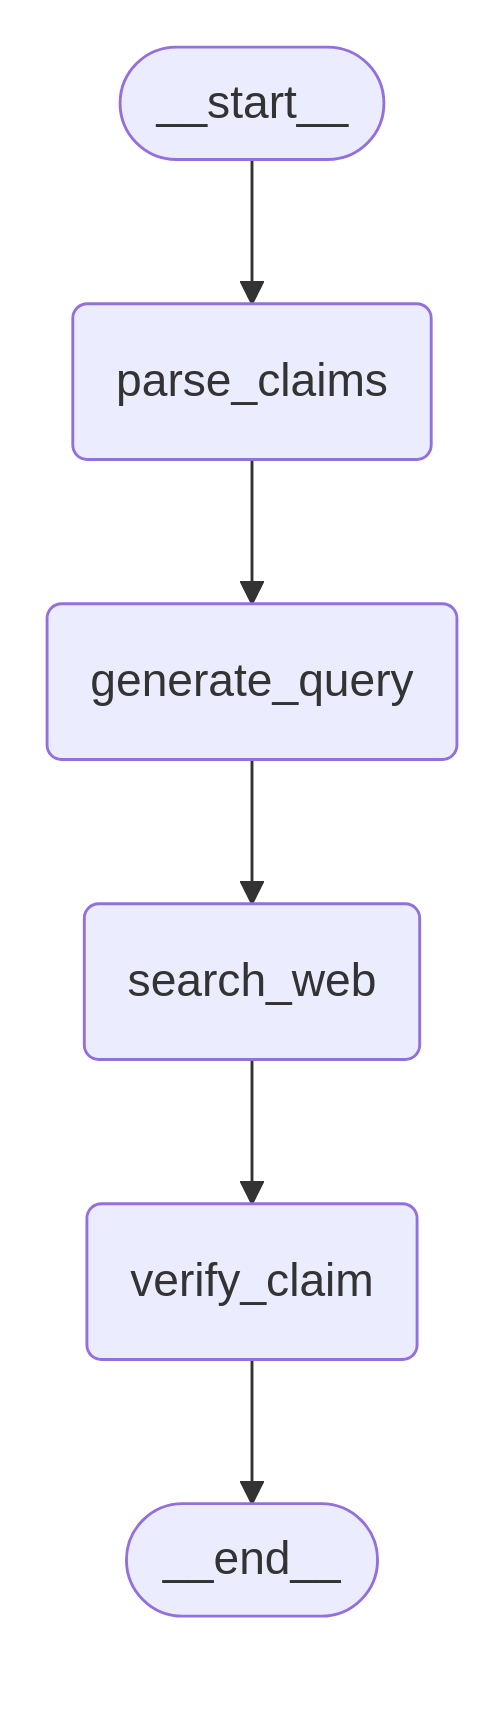
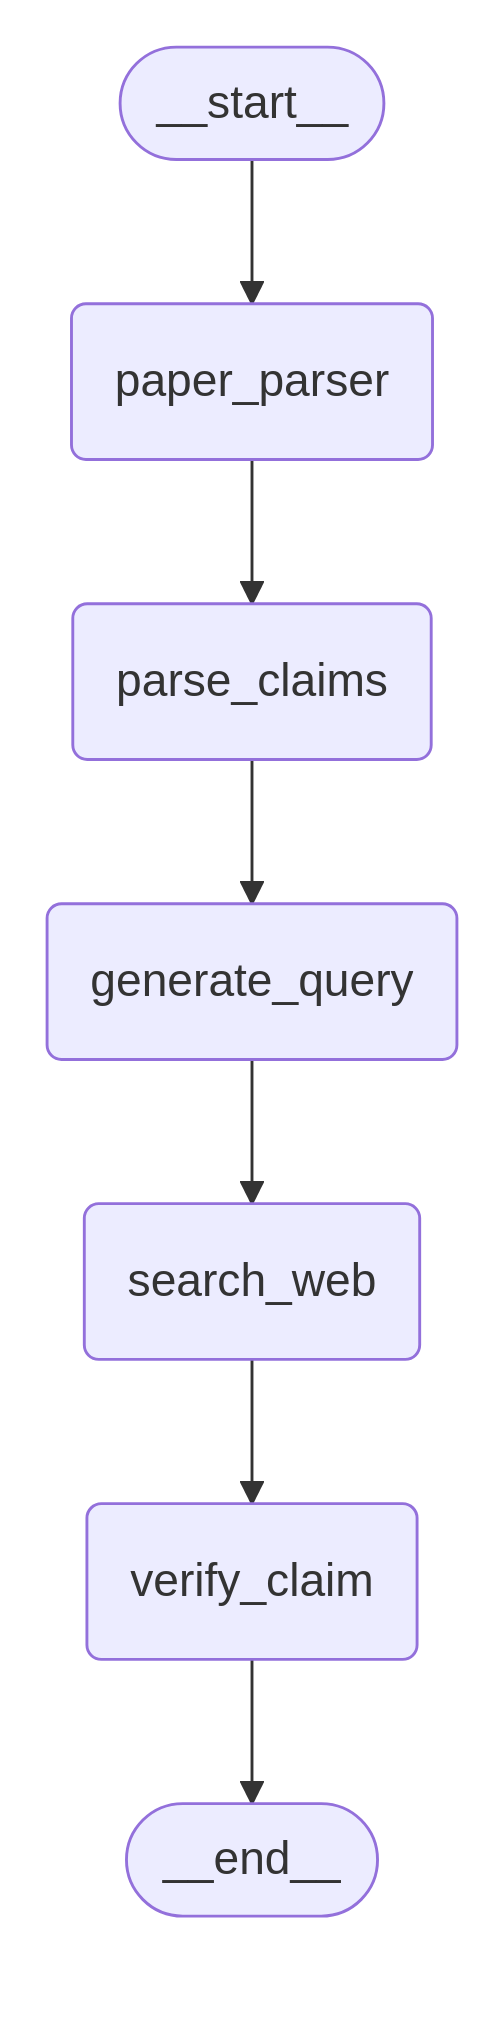
updated the checker

diff --git a/agents/checker.py b/agents/checker.py
@@ -12,12 +12,21 @@ from langchain_core.runnables.graph import CurveStyle, MermaidDrawMethod, NodeSt
 from fchecker.fscorer import LikertScorer
 from agents.schemas import FRPair
 from agents.states import FactCheckerState
+from pdfparse.rag_llama import RAG
+from langchain_core.messages import AIMessage, HumanMessage
+import yaml
+from agents.schemas import Paper
+from pprint import pprint
 
 logging.basicConfig(
+    filename="PRAGATI.log",
     level=logging.INFO, format="%(asctime)s - %(levelname)s - %(message)s"
 )
 logger = logging.getLogger(__name__)
 
+
+with open("utils/prompts.yaml", "r") as file:
+    prompts = yaml.safe_load(file)
 
 def generate_search_query(claim: str) -> str:
     """Generate a search query from a claim"""
@@ -113,6 +122,21 @@ def parse_claims(state: FactCheckerState) -> FactCheckerState:
 
     return state
 
+def retrieve_facts(state: FactCheckerState) -> FactCheckerState:
+    """Retrieve facts from the knowledge base"""
+    file = state.paper.filepath
+    if not file:
+        state.errors = "No file provided for knowledge base"
+        return state
+    logger.info(f"Starting RAG application with PDF: {file}")
+    rag = RAG(file)
+    index = rag.create_db()
+    query_text = prompts["fchecker"]["human_message"].format(paper_name=state.paper.title)
+    retriever = rag.create_retriever(index)
+    response = rag.rag_query(query_text, retriever)
+    pprint(response["result"])
+    state.inputs = response["result"]
+    return state
 
 def generate_query(state: FactCheckerState) -> FactCheckerState:
     """Generate search queries for the current claim"""
@@ -169,39 +193,45 @@ def verify_claim(state: FactCheckerState) -> FactCheckerState:
     """Verify the current claim against search results"""
     if state.current_index >= len(state.pairs) or state.errors:
         return state
-
+    
     current_pair = state.pairs[state.current_index]
+    verification = None  # Initialize verification variable
+    
     try:
         logger.info(f"Verifying claim: {current_pair.claim}")
         verification = score_fact(
             claim=current_pair.claim, references=current_pair.search_results
         )
+        pprint(verification)
         current_pair.verification = verification
         state.pairs[state.current_index] = current_pair
-        # if not isinstance(state.token_usage, int):
-        #     state.token_usage = 0
-        # state.token_usage += verification.get("token", 0)
-        # print("tokens used:",verification.get("token", 0))
+        
         if verification.get("score", "N/A") == 0:
             logger.info(f"Claim is Unverified")
         else:
             logger.info(f"Verification complete: Score={verification.get('score')}")
+            
+        # Add to total score only if verification was successful
+        state.total_score += verification.get("score", 0)
+        
     except Exception as e:
         state.errors = f"Error in verification: {str(e)}"
         logger.error(f"Error in verify_claim: {e}")
-
-    state.total_score += verification.get("score", 0)
+    
+    # Always increment the index and calculate average regardless of success/failure
     state.current_index += 1
+    
     if state.current_index < state.no_claims:
         state.average_score = state.total_score / state.current_index
     else:
         state.average_score = state.total_score / state.no_claims
-        if state.average_score > 3:
-            state.is_factual = True
-        else:
-            state.is_factual = False
+        
+    if state.average_score > 3:
+        state.is_factual = True
+    else:
+        state.is_factual = False
+        
     return state
-
 
 def should_continue(state: FactCheckerState) -> str:
     """Determine whether to process the next claim or end"""
@@ -220,15 +250,16 @@ def should_continue(state: FactCheckerState) -> str:
 
 def create_fact_checker_graph() -> StateGraph:
     """Create the fact checker workflow graph"""
-    # defining the nodes
     workflow = StateGraph(FactCheckerState)
+    workflow.add_node("paper_parser", retrieve_facts)
     workflow.add_node("parse_claims", parse_claims)
     workflow.add_node("generate_query", generate_query)
     workflow.add_node("search_web", search_web)
     workflow.add_node("verify_claim", verify_claim)
 
     # Define the edges
-    workflow.add_edge(START, "parse_claims")
+    workflow.add_edge(START, "paper_parser")
+    workflow.add_edge("paper_parser", "parse_claims")
     workflow.add_edge("parse_claims", "generate_query")
     workflow.add_edge("generate_query", "search_web")
     workflow.add_edge("search_web", "verify_claim")
@@ -257,11 +288,11 @@ def create_fact_checker_graph() -> StateGraph:
     return compiled_graph
 
 
-def fact_check(text: str) -> List[FRPair]:
+def fact_check(paper: Paper) -> List[FRPair]:
     """Run the fact checking process on a text input"""
     logger.info("Starting fact checking process")
     checker = create_fact_checker_graph()
-    final_state = checker.invoke({"inputs": text})
+    final_state = checker.invoke({"paper": paper})
 
     return final_state["pairs"]
 
@@ -286,6 +317,14 @@ def format_results(pairs: List[FRPair]) -> str:
 
 # Example usage
 if __name__ == "__main__":
-    while input("Enter q to quit: ") != "q":
-        input_text = input("Enter text to fact check: ")
-        results = fact_check(input_text)
+    # while input("Enter q to quit: ") != "q":
+    #     input_text = input("Enter text to fact check: ")
+    #     results = fact_check(input_text)
+    paper1=Paper(
+        filepath="/home/naba/Desktop/PRAGATI/satya.pdf",
+        title="Some Title",
+        topic="ML",
+        filename="satya.pdf",
+        sections=["Abstract", "Introduction", "Methodology"]
+    )
+    results = fact_check(paper1)

diff --git a/fchecker/fscorer.py b/fchecker/fscorer.py
@@ -1,8 +1,8 @@
 import os
 import yaml
+import re
 from langchain_core.messages import AIMessage, HumanMessage
 from utils.chat import invoke_llm_langchain
-
 
 class LikertScorer:
     def __init__(self):
@@ -11,18 +11,27 @@ class LikertScorer:
         prompts_path = os.path.join(project_root, "utils", "prompts.yaml")
         with open(prompts_path, "r") as file:
             self.prompts = yaml.safe_load(file)["scorer_prompts"]
-
+    
     def score_text(self, text, fact):
         initial_message = self.prompts["initial_message"].format(text=text, fact=fact)
         messages = [HumanMessage(content=initial_message)]
         response, i, o = invoke_llm_langchain(messages)
-        return int(response[-1].content.strip()), int(i + o)
-
+        content = response[-1].content.strip()
+        score_match = re.match(r'^\s*(\d+)', content)
+        if score_match:
+            score = int(score_match.group(1))
+        else:
+            numbers = re.findall(r'\d+', content)
+            if numbers:
+                score = int(numbers[0])
+            else:
+                score = 0  
+        return score, int(i + o)
 
 # Example usage
 if __name__ == "__main__":
     scorer = LikertScorer()
     text = "sun rises in the west and it's very far from earth"
     fact = """The Sun, the Moon, the planets, and the stars all rise in the east and set in the west. And that's because Earth spins -- toward the east."""
-    score, _ = scorer.score_text(text, fact)
+    score, tokens = scorer.score_text(text, fact)
     print("Likert Score:", score)

diff --git a/agents/states.py b/agents/states.py
@@ -44,6 +44,7 @@ class QuestionState(BaseModel):
         return self is other
 
 class FactCheckerState(BaseModel):
+    paper: Paper = Field(None, description="Paper that should be fact-checked")
     inputs: str = Field(None, description="Original text chunk to be fact-checked")
     search_query: str = Field(
         None, description="Generated search query for fact-checking"

diff --git a/utils/chat.py b/utils/chat.py
@@ -5,7 +5,7 @@ import time
 
 
 def invoke_llm_langchain(
-    messages, model="mistral-saba-24b", temperature=0.2, max_tokens=5000
+    messages, model="llama-3.1-8b-instant", temperature=0.2, max_tokens=5000
 ):
     """
     Invoke the LLM with the given messages
